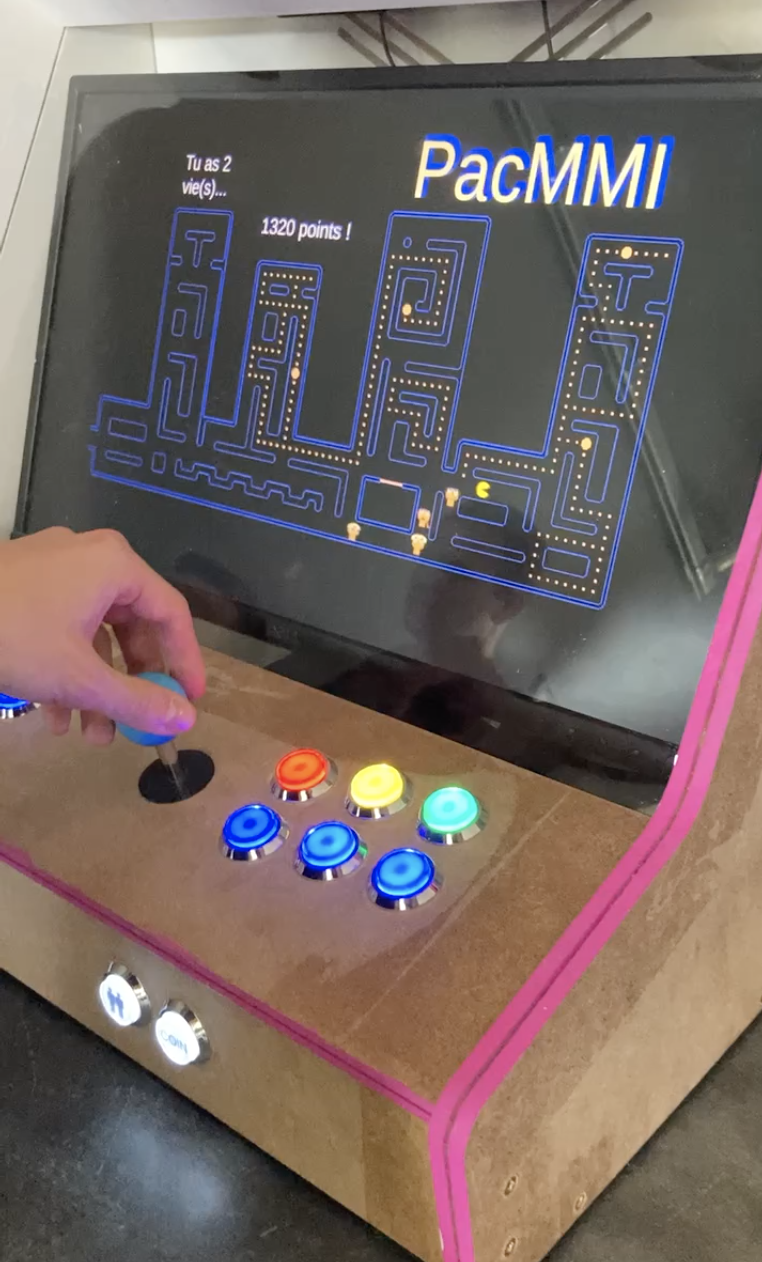
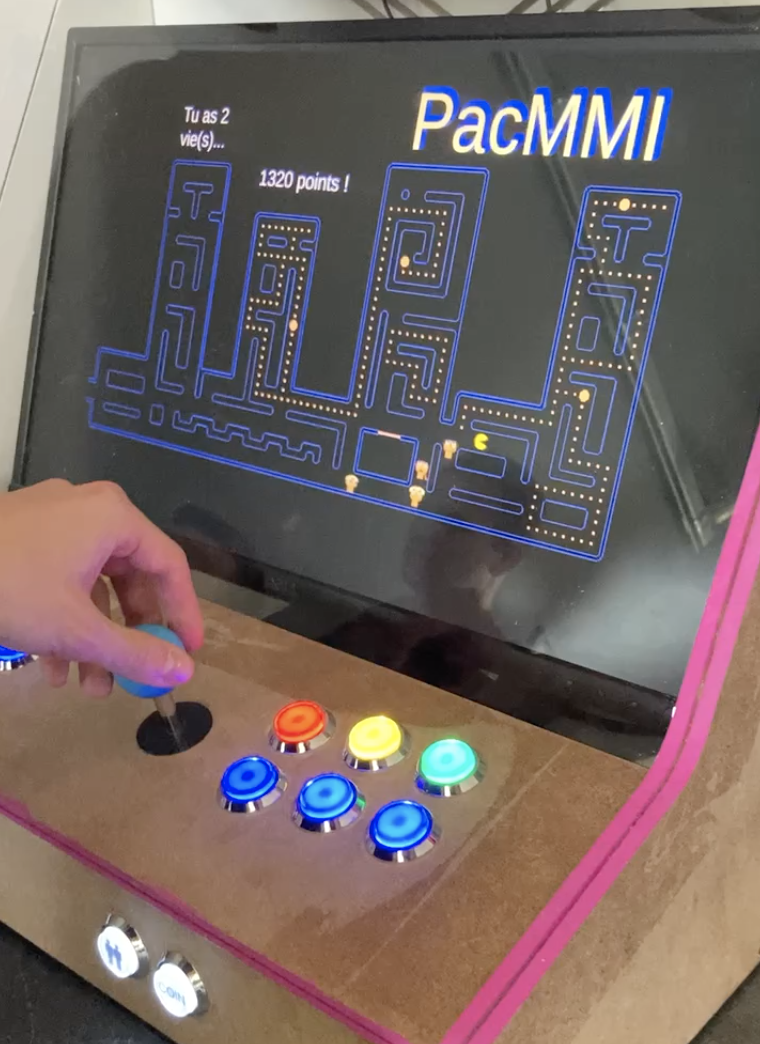
update image and projects

diff --git a/src/data.js b/src/data.js
@@ -4,10 +4,13 @@ import mmix from "./assets/photo/mmix.png"
 import mmix0 from "./assets/photo/mmix0.jpeg"
 import mmix1 from "./assets/photo/mmix1.jpeg"
 import mmix2 from "./assets/photo/mmix2.jpeg"
+import mmix3 from "./assets/photo/mmix3.png"
+import mmix4 from "./assets/photo/mmix4.png"
 
 /* IMG Borne d'arcade + pacMmi */
 import borneArcade from "./assets/photo/borneArcade0.png"
 import borneArcade1 from "./assets/photo/borneArcade1.png"
+import borneArcade2 from "./assets/photo/borneArcade2.jpeg"
 import pacMmi from "./assets/photo/pacMmi.png"
 
 /* IMG idol + elementaris */
@@ -23,6 +26,18 @@ import muew0 from "./assets/photo/muew0.png"
 import muew1 from "./assets/photo/muew1.png"
 import muew2 from "./assets/photo/muew2.png"
 import muew3 from "./assets/photo/muew3.png"
+
+/* IMG mosquito */
+import mosquito0 from "./assets/photo/mosquito0.jpeg"
+import mosquito1 from "./assets/photo/mosquito1.png"
+import mosquito2 from "./assets/photo/mosquito2.png"
+import mosquito3 from "./assets/photo/mosquito3.jpeg"
+
+/* IMG mapping */
+import mapping0 from "./assets/photo/mapping0.jpeg"
+import mapping1 from "./assets/photo/mapping1.jpeg"
+import mapping2 from "./assets/photo/mapping2.jpeg"
+import mapping3 from "./assets/photo/mapping3.jpeg"
 
 
 const data = {
@@ -126,7 +141,7 @@ const data = {
                 "alt": "photo borne arcade"
             },
             {
-                "src": borneArcade,
+                "src": borneArcade2,
                 "alt": "photo borne arcade"
             },
             {
@@ -171,7 +186,7 @@ const data = {
                 "alt": "photo borne arcade"
             },
             {
-                "src": borneArcade,
+                "src": borneArcade2,
                 "alt": "photo borne arcade"
             },
             {
@@ -253,12 +268,12 @@ const data = {
         "link": "https://muew.eu/",
         "img": [
             {
-                "src": muew0,
-                "alt": "logo muew"
+                "src": muew1,
+                "alt": "vue du site muew"
             },
             {
                 "src": muew0,
-                "alt": "logo muew"
+                "alt": "vue page entière muew"
             },
             {
                 "src": muew1,
@@ -303,16 +318,20 @@ const data = {
                 "alt": "logo Laly"
             },
             {
-                "src": artemis1,
-                "alt": "logo Laly"
+                "src": elementaris3,
+                "alt": "vue en 3D de l'exposition"
             },
             {
-                "src": "logoLaly.svg",
-                "alt": "logo Laly"
+                "src": idol,
+                "alt": "affiche de l'evenement"
             },
             {
-                "src": "logoLaly.svg",
-                "alt": "logo Laly"
+                "src": artemis2,
+                "alt": "publication instagram"
+            },
+            {
+                "src": elementaris,
+                "alt": "affiche de l'oeuvre elementaris"
             }
         ],
         "conclusion": "Ayant une double casquette, cheffe de projet et développeuse, j’ai pu suivre l’avancée de la maquette et communiquer directement avec les graphistes sur ce qui est faisable et rapide à faire et ce qui ne l’est pas. Je trouve que c’est très important d’inclure tous les aspects d’un projet et de ne pas juste faire ’sa partie’."
@@ -326,7 +345,7 @@ const data = {
         "roles": [
             "Développeuse web"
         ],
-        "description": "Afin de valoriser notre évènement MMIX (lien), nous avons fait un site web pour que toutes les informations soient accessibles facilement. Nous avions des contrainte de sobriété à respecter, ainsi que des normes d’accessibilités à prendre en compte. Je me suis chargée de son intégration depuis la maquette Figma qu’a fait les graphistes. Ce site devait respecter des normes d'accessibilités et de sobriété, ce que l'on a donc inclut dès sa conception.",
+        "description": "Afin de valoriser notre évènement MMIX, nous avons fait un site web pour que toutes les informations soient accessibles facilement. Nous avions des contrainte de sobriété à respecter, ainsi que des normes d’accessibilités à prendre en compte. Je me suis chargée de son intégration depuis la maquette Figma qu’a fait les graphistes. Ce site devait respecter des normes d'accessibilités et de sobriété, ce que l'on a donc inclut dès sa conception.",
         "tools": [
             "HTML",
             "CSS",
@@ -337,23 +356,28 @@ const data = {
             "Développement web",
             "Rédaction"
         ],
+        "link": "https://web.archive.org/web/20230327013916/https://mmixchambery.fr/",
         "img": [
             {
-                "src": import("./assets/logoLaly.svg"),
-                "alt": "logo Laly"
+                "src": mmix,
+                "alt": "interface live mmix"
             },
             {
-                "src": import("./assets/logoLaly.svg"),
-                "alt": "logo Laly"
+                "src": mmix,
+                "alt": "interface live mmix"
             },
             {
-                "src": import("./assets/logoLaly.svg"),
-                "alt": "logo Laly"
+                "src": mmix2,
+                "alt": "affiche evenement mmix"
             },
             {
-                "src": import("./assets/logoLaly.svg"),
-                "alt": "logo Laly"
-            }
+                "src": mmix3,
+                "alt": "interface live mmix"
+            },
+            {
+                "src": mmix4,
+                "alt": "affiche evenement mmix"
+            },
         ],
         "conclusion": "Je suis très fière de ce site et je l’aime particulièrement car j’ai mis beaucoup d’effort dans cet évènement, et j’ai l’impression d’avoir beaucoup appris grâce à lui en travail multitâche."
     },
@@ -447,6 +471,77 @@ const data = {
         ],
         "conclusion": "Suivre un projet dans son ensemble est très enrichissant mais en comprendre chaque partie est primordial, donc je me suis beaucoup investie à chaque étape et je suis très fière du résultat !",
         "on_top": true
+    },
+    "mosquito": {
+        "title": "Borne connectée anti-moustique",
+        "short_description": "Conception d’une borne anti-moustique connectée",
+        "category": "Perso",
+        "date": "Été 2023 + Février 2024",
+        "class": "Projet personnel",
+        "roles":
+            ["Bricoleuse du dimanche", "Développeuse web", "Développeuse IoT"],
+        "description": "Pour répondre à un problème de surpopulation de moustique à la Motte-Servolex, nous avons eu l’idée avec Serge Helies et Guillaume Dumoulin de recréer « fait maison » un piège à moustiques vu sur internet. Il s’agit d’une boîte qui aspire les moustiques en diffusant des hormones pour les attirer afin de les piéger dans un filet. Nous avons donc voulu la refaire à petit budget pour les habitants, tout en récupérant des composants informatiques que les personnes jettent en changeant de pc ou pour d’autres raisons.",
+        "tools":
+            ["Arduino", "Composants inutilisés", "API"],
+        "skill":
+            ["IoT", "Conception d’un produit en plusieurs quantités", "Communication de données "],
+        "img": [
+            {
+                "src": mosquito1,
+                "alt": "apperçu de la boite anti-moutique"
+            },
+            {
+                "src": mosquito1,
+                "alt": "apperçu de la boite anti-moutique"
+            },
+            {
+                "src": mosquito2,
+                "alt": "développement de la boite anti-moutique"
+            },
+            {
+                "src": mosquito3,
+                "alt": "plan de la boite anti-moutique"
+            },
+            {
+                "src": mosquito0,
+                "alt": "développement de la boite anti-moutique"
+            }
+        ],
+        "conclusion": "En faisant un projet en dehors de l’école, j’ai pu apprendre différentes façons de faire mais aussi répondre à un vrai besoin. Je savais que je le faisais pour moi et non juste pour une note, ce qui est plus motivant et encore plus quand on est plusieurs dessus ! Ce projet m’a redonné confiance en mes capacités et je sais qu’en me donnant les chances d’y arriver je sais mener à bien de vrais projets."
+    },
+    "mapping": {
+        "title": "Mapping vidéo interactif",
+        "category": "Perso",
+        "date": "Février 2024",
+        "class": "Projet personnel",
+        "short_description": "Conception d’un jeu interactif pour la Nuit de la création",
+        "roles": ["Développeuse", "Conceptrice"],
+        "description": "La ville de la Motte-Servolex organise tous les ans la “Nuit de la création” dédiée à la découverte de l’art contemporain, en déambulant dans la ville, à travers des œuvres à la fois originales et interactives. Pour la prochaine édition, la conciergerie (galerie d’art de la ville) voudrait attirer un public plus jeune et rendre accessible l’art par le jeu, tout en valorisant le travail d’étudiants. Mon projet permettrait d’utiliser des techniques inconnues pour le grand public en les rendant accessible à travers un jeu qui leur sera familier. Pour le moment, j’ai d’abord voulu prendre en main l’outil c’est pour cela que le jeu n’est pas en rapport avec l’art contemporain, ce sera la prochaine étape du projet.",
+        "tools": ["Javascript", "Arduino", "WebSockets"],
+        "skill": ["Transmission de positions avec les WebSockets", "Canva en JS", "Leap Motion", "Jeu vidéo"],
+        "img": [
+            {
+                "src": mapping1,
+                "alt": ""
+            },
+            {
+                "src": mapping0,
+                "alt": "installation des boutons de jeu"
+            },
+            {
+                "src": mapping1,
+                "alt": "montage du mapping"
+            },
+            {
+                "src": mapping2,
+                "alt": "apperçu du jeu"
+            },
+            {
+                "src": mapping3,
+                "alt": "logiciel de régie"
+            }
+        ],
+        "conclusion": "Grâce à ce projet, j'ai appris à faire évoluer un jeu existant en l’adaptant avec des nouvelles techniques d’interaction (buzzer Arduino + Leap Motion). J'ai aussi pu mettre en application des notions vu en cours afin de mieux les comprendre et me les approprier, ce qui est une bonne manière d'intégrer réellement les notions."
     }
 };
 

diff --git a/src/pages/Project.jsx b/src/pages/Project.jsx
@@ -28,17 +28,23 @@ function Project() {
                 </div>
 
                 <div className="w-2/3 m-4">
-                    <p>{projectData.description}</p>
+                    <p className="text-justify">{projectData.description}</p>
+                    {projectData.link ? (
+                        <a href={projectData.link} target="_blank" className="mt-8 bg-vertt p-2 rounded-xl text-black flex w-fit"><b className="pr-4">Lien vers le projet</b><img src={link} alt="lien vers le site"></img> </a>
+                    ) : null
+                    }
 
-                    <div>
-                        <p className="mt-4 mb-4 decoration-terracota text-end"><span className=" bg-terracota p-2 rounded-xl text-beigee"><b>Année :</b> {projectData.date} ( {projectData.class} )</span> </p>
-                        <p className="w-full mb-4 decoration-vertt text-end"><span className=" bg-vertt p-2 rounded-xl text-black"><b>Rôles : </b> {projectData.roles.join(" - ")}</span></p>
-                        <h5 className="mb-4"><b><u className="decoration-terracota">Outils :</u></b></h5>
-                        <ul className="ml-8 mb-4 list-disc">{projectData.tools.map((tool) => (<li className="list-disc" key={tool}> {tool}</li>))}</ul>
-                        {projectData.link ? (
-                            <a href={projectData.link} target="_blank" className=" bg-vertt p-2 rounded-xl text-black flex w-fit"><b className="pr-4">Lien vers le projet</b><img src={link} alt="lien vers le site"></img> </a>
-                        ) : null
-                        }
+
+                    <div className="flex mt-8">
+                        <div className="w-1/2">
+                            <h5 className="mb-4"><b><u className="decoration-terracota">Outils :</u></b></h5>
+                            <ul className="ml-8 mb-4 list-disc">{projectData.tools.map((tool) => (<li className="list-disc" key={tool}> {tool}</li>))}</ul>
+
+                        </div>
+                        <div className="w-1/2">
+                            <p className="mt-4 mb-4 decoration-terracota text-end"><span className=" bg-terracota p-2 rounded-xl text-beigee"><b>Année :</b> {projectData.date} ( {projectData.class} )</span> </p>
+                            <p className="w-full mb-4 decoration-vertt text-end"><span className=" bg-vertt p-2 rounded-xl text-black"><b>Rôles : </b> {projectData.roles.join(" - ")}</span></p>
+                        </div>
                     </div>
                 </div>
             </div>
@@ -77,7 +83,7 @@ function Project() {
 
             <div className="flex flex-col wrap">
                 <h5 className="stroke titreProject">Conclusion :</h5>
-                <p className="mx-64 mt-4">{projectData.conclusion}</p>
+                <p className="mx-64 mt-4 text-justify">{projectData.conclusion}</p>
             </div>
         </>
     );

diff --git a/src/pages/Home.jsx b/src/pages/Home.jsx
@@ -64,9 +64,9 @@ function Home() {
                 <div className="flex w-full mt-56">
                     <div className="w-2/3">
                         <p className="text-4xl mb-8">Teissier Laly - <b className="stroke">une rêveuse</b></p>
-                        <p className="mb-4 text-2xl">Actuellement étudiante en MMI à l'IUT de Chambéry, je me spécialise dans le développement web et la gestion de projet. </p>
-                        <p className="mb-4">👉 Quand je suis arrivée en MMI, je ne connaissais rien au monde du multimédia mais cela m'a tout de suite plu. J'aime apprendre de nouvelles choses et tous les domaines de cette formation m'intéressent.</p>
-                        <p className="mb-4">👉 Curieuse, volontaire et dynamique, je suis toujours motivée et quand je fais quelque chose, je le fais avec le cœur !</p>
+                        <p className="mb-4 text-2xl text-justify">Actuellement étudiante en MMI à l'IUT de Chambéry, je me spécialise dans le développement web et la gestion de projet. </p>
+                        <p className="mb-4 text-justify">👉 Quand je suis arrivée en MMI, je ne connaissais rien au monde du multimédia mais cela m'a tout de suite plu. J'aime apprendre de nouvelles choses et tous les domaines de cette formation m'intéressent.</p>
+                        <p className="mb-4 text-justify">👉 Curieuse, volontaire et dynamique, je suis toujours motivée et quand je fais quelque chose, je le fais avec le cœur !</p>
                         <p>👉 Mais je suis avant tout un couteau suisse et j'aiguise mes fonctionnalités en fonction des nouvelles choses que j’apprends au quotidien.</p>
                     </div>
                     <img src={photoLaly}></img>
@@ -122,7 +122,7 @@ function Home() {
                                 <p className="text-center">- Spécialité développement web -</p>
                             </div>
                         </div>
-                        <p className="mt-8 text-center text-xl w-2/3 m-auto">Grâce à cette formation, j’ai pu découvrir de nombreux domaines du multimédia comme l’audiovisuel, la communication, le graphisme et le développement web.
+                        <p className="mt-8 text-center text-xl w-2/3 m-auto ">Grâce à cette formation, j’ai pu découvrir de nombreux domaines du multimédia comme l’audiovisuel, la communication, le graphisme et le développement web.
                             Cela m’a permis de devenir un véritable couteau-suisse du web ! </p>
                     </div>
                 </div>

diff --git a/src/pages/AllProjects.jsx b/src/pages/AllProjects.jsx
@@ -45,6 +45,16 @@ function AllProjects() {
                                     </a>
                                 );
 
+                            } else if (selectedTab.items.some(r => project.category == "Perso")) {
+                                return (
+                                    <a className="allProjectsLi w-60 m-2 bg-beigee p-4 rounded h-60" href={`/projet/${idProject}`}>
+                                        <li className="flex flex-col justify-between" key={idProject}>
+                                            <u>LIEN</u> {project.title}
+                                            <img className="w-16" src={project.img[0].src} alt={project.img[0].alt}></img>
+                                            <p className="relative bottom-0 bg-terracota p-2 rounded-2xl text-beigee">{project.date}</p>
+                                        </li>
+                                    </a>
+                                );
                             }
 
                         })}
